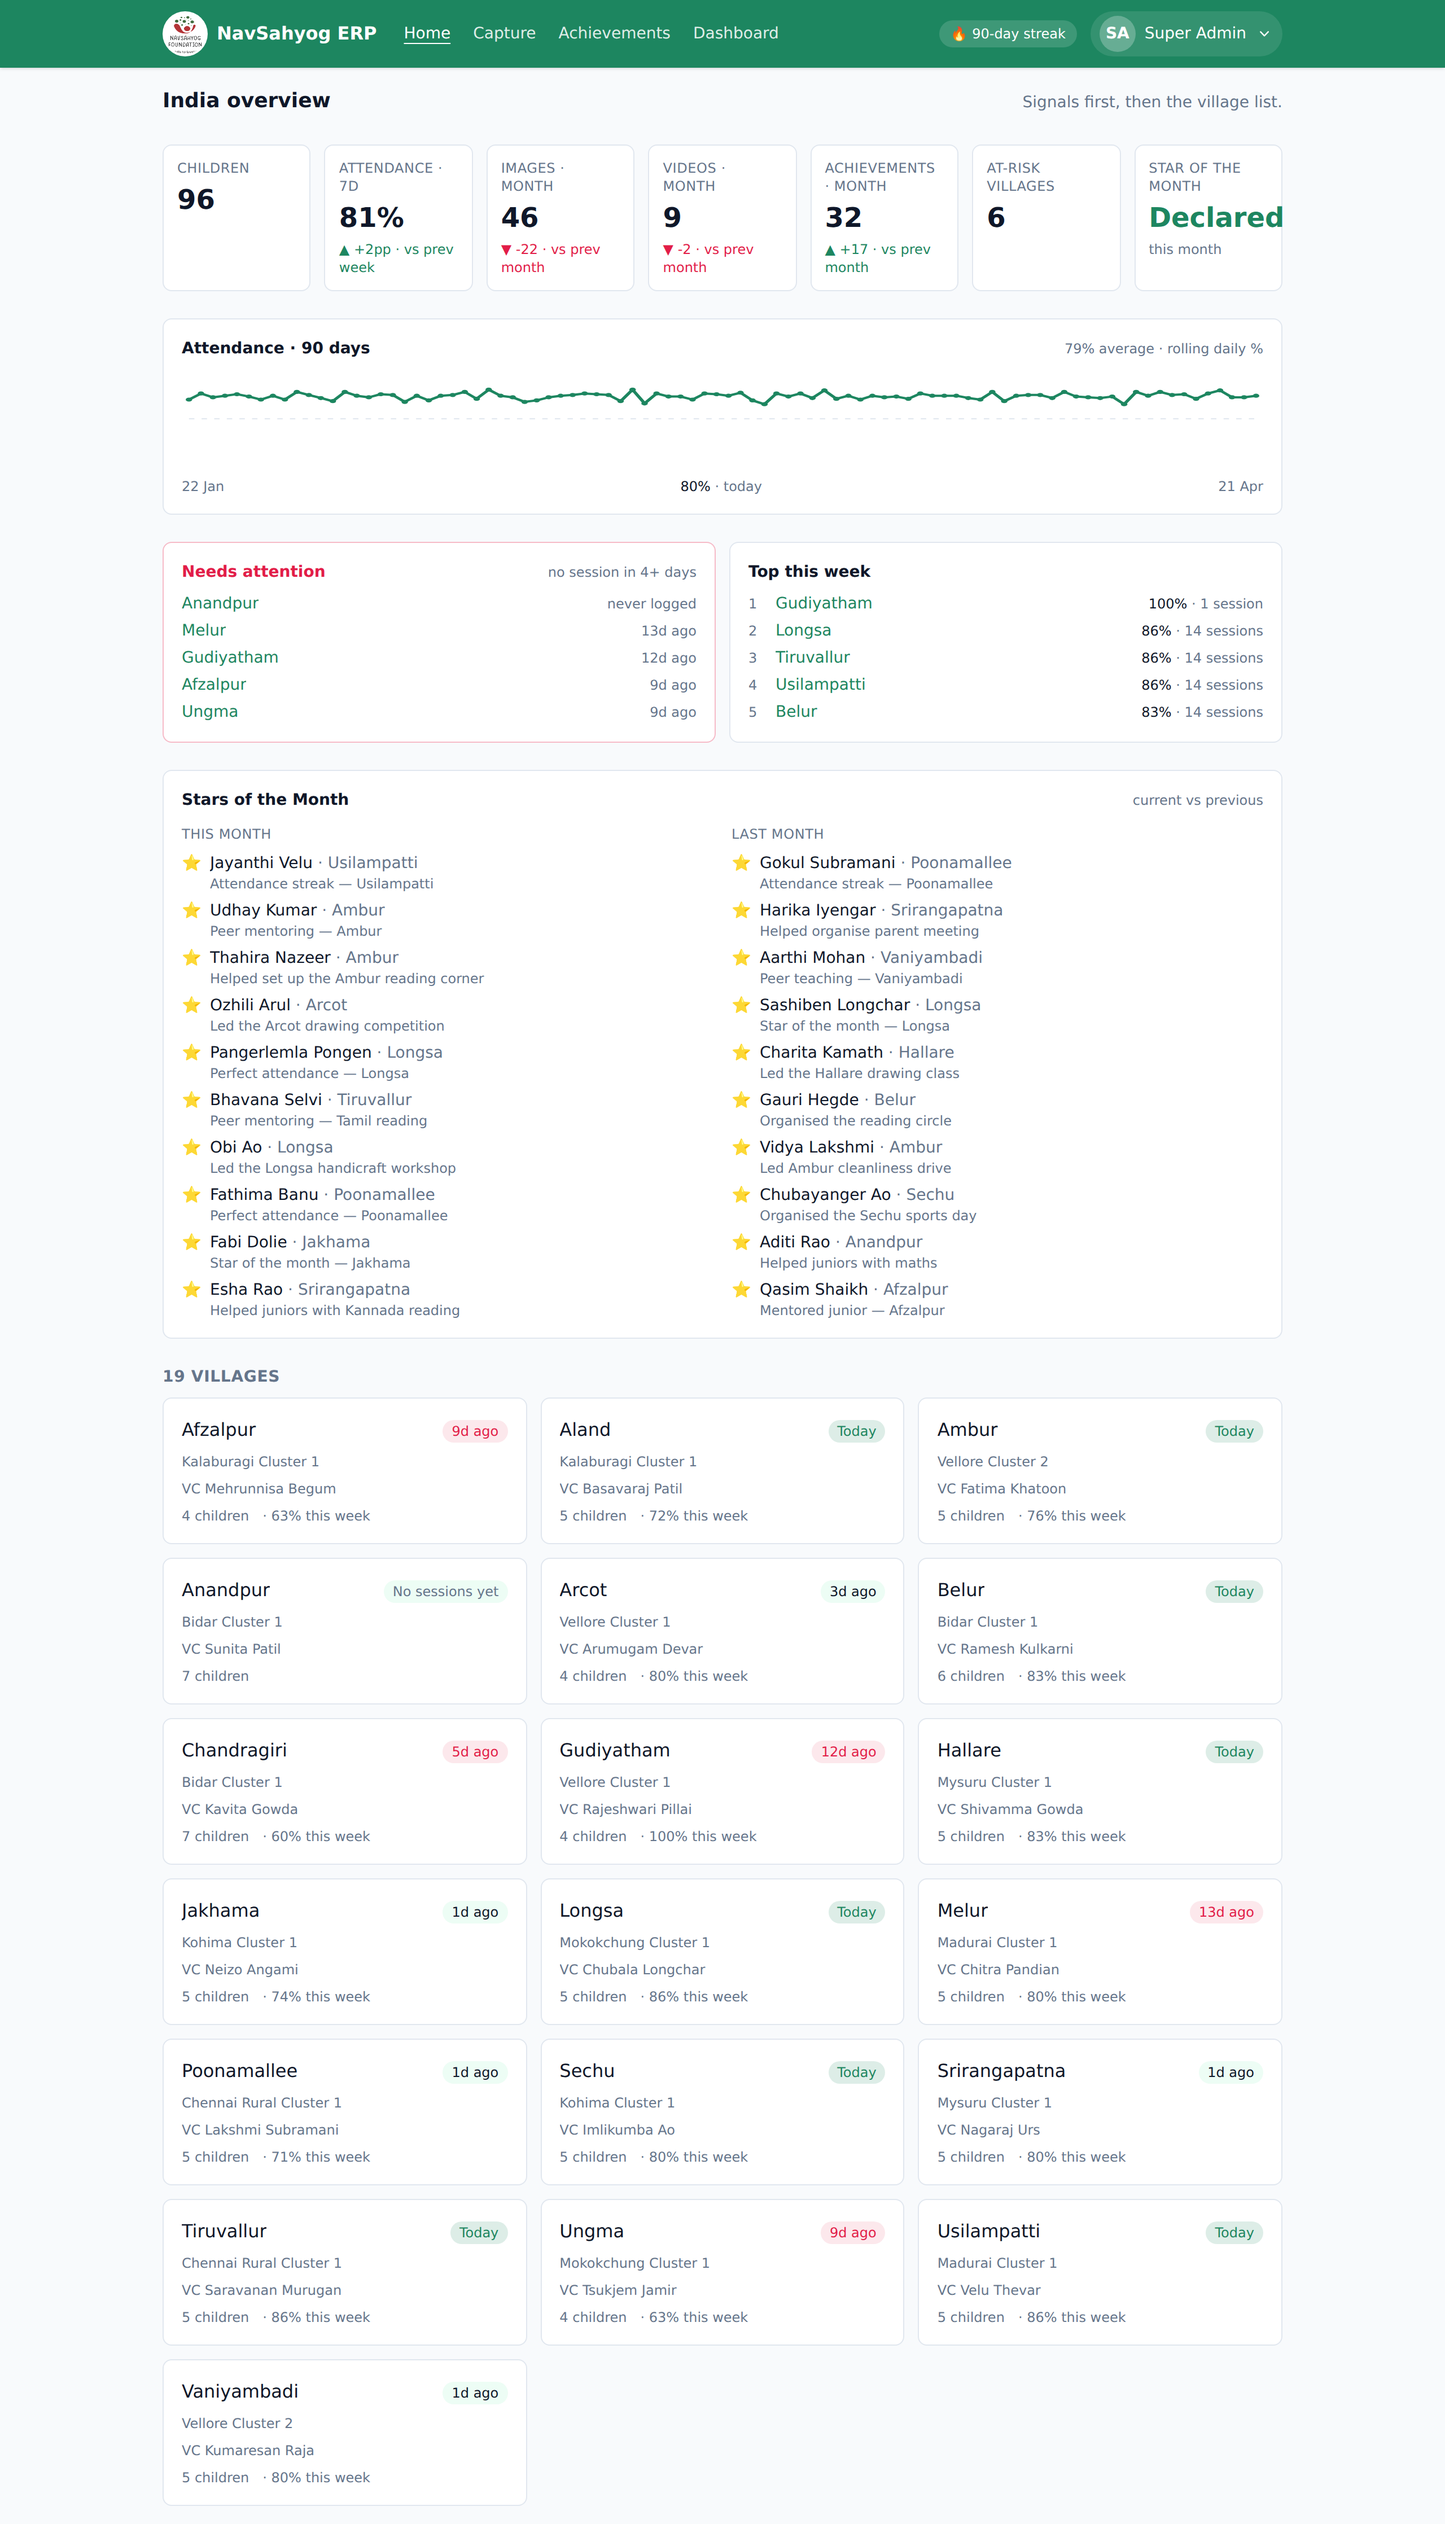
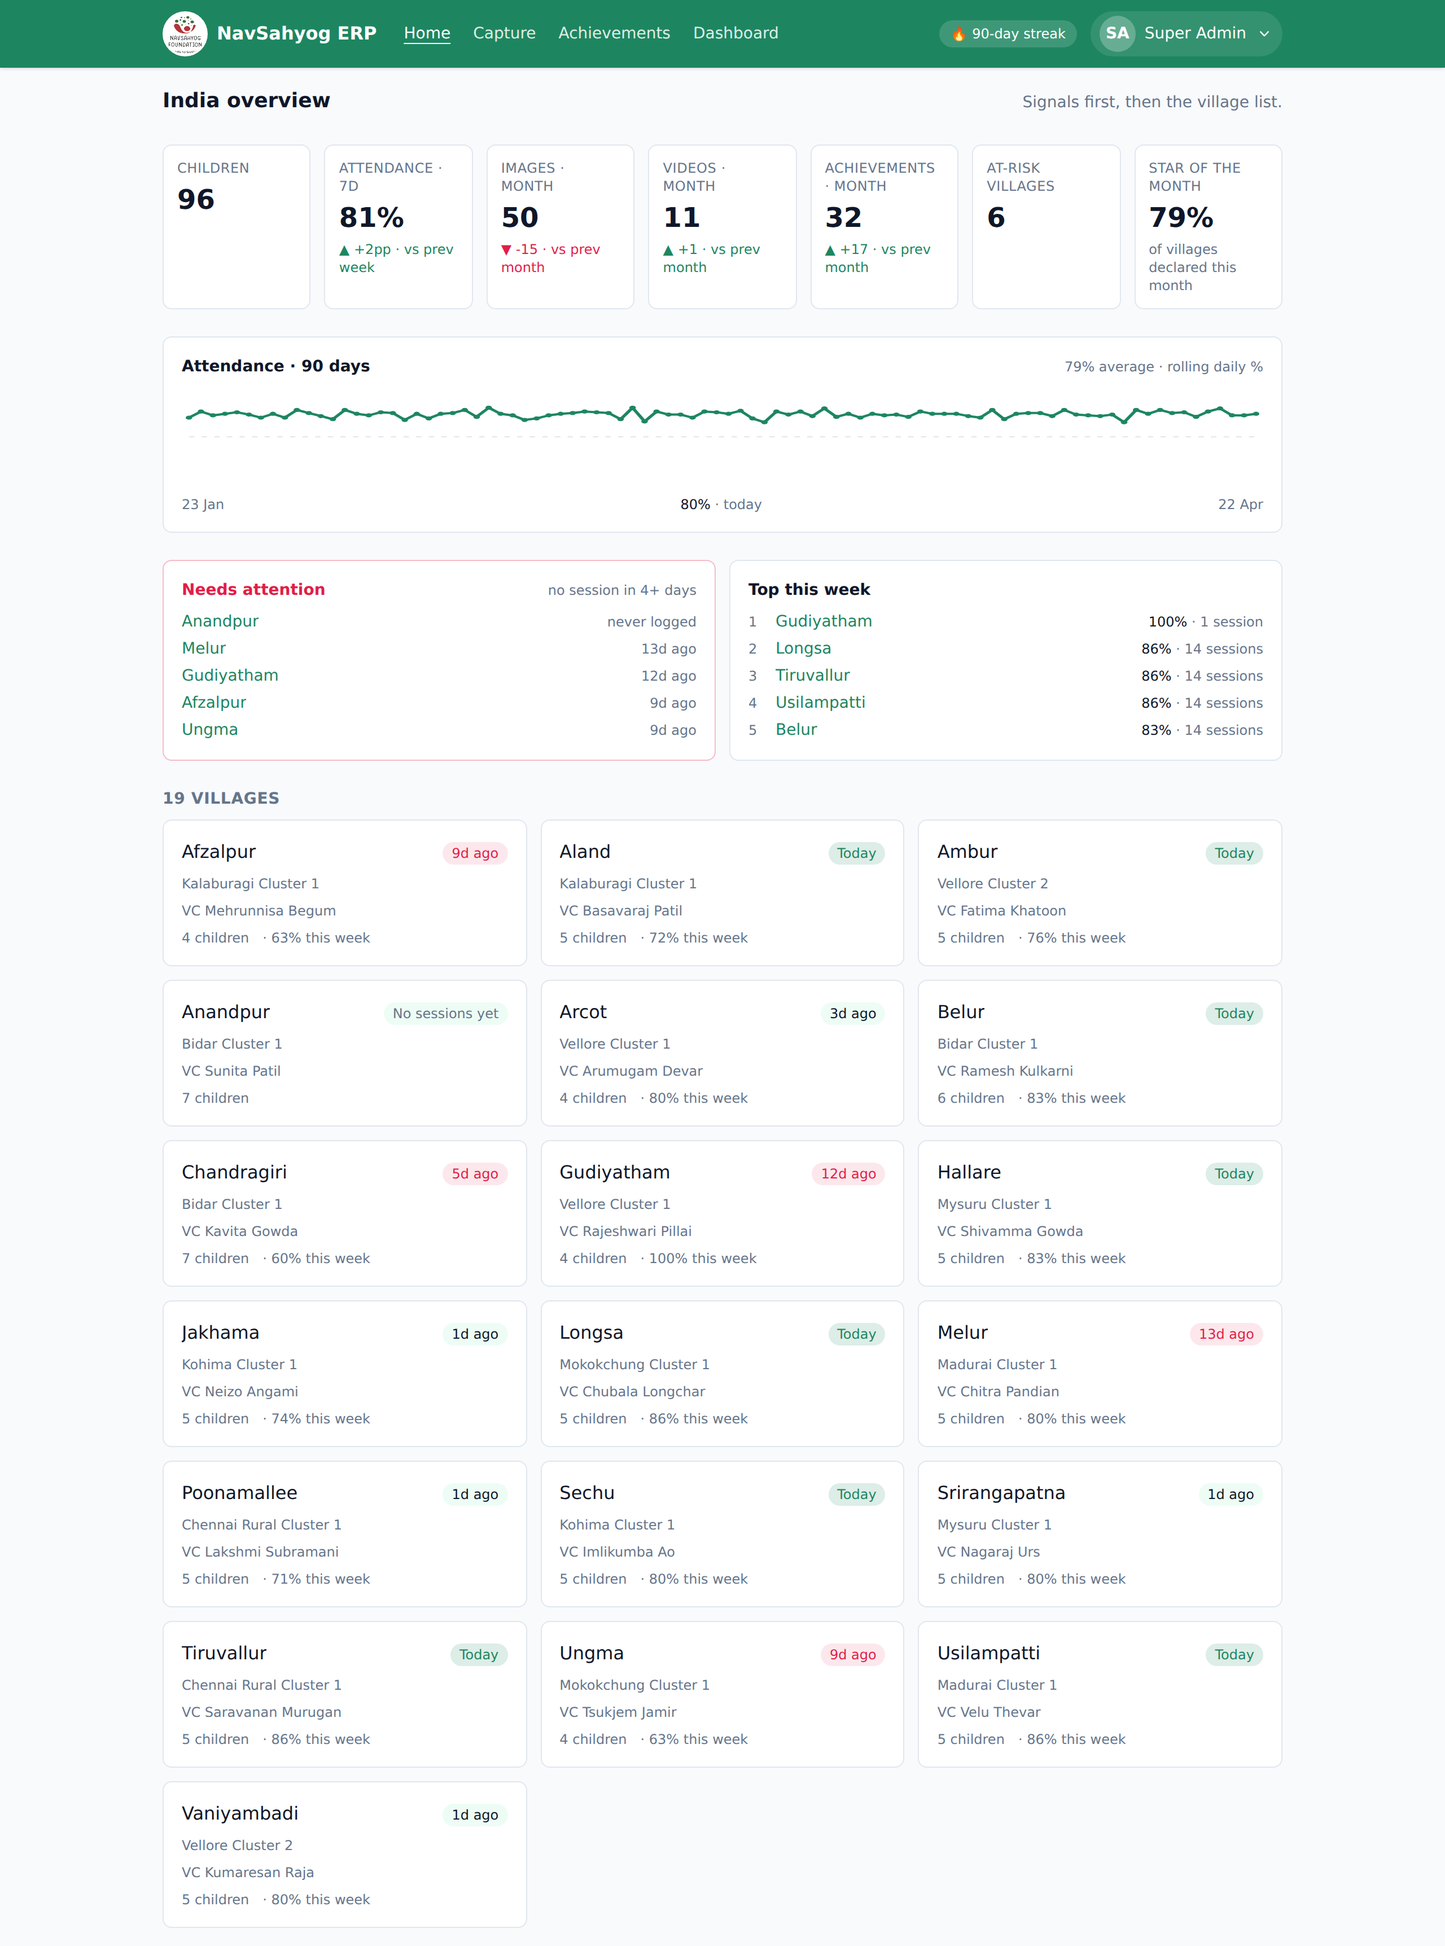
feat(home): SOM tile as % of villages declared
Per review feedback on #33: the yes/no Declared / Not-yet tile
leaves ops blind once the first village declares — 1/19 reads
"Declared" but is actually a near-complete miss. Replaces the
boolean with the share of in-scope villages that have at least
one SoM this calendar month (0–100, whole-number %).

Tile tone:
- 100% → primary (green) — the ritual is complete
-   0% → danger (red)    — nobody has declared yet
- any %  → neutral fg     — work remaining

Server (apps/api/src/routes/insights.ts): somDeclaredInMonth →
somDeclaredPctInMonth, single query with COUNT(DISTINCT village_id)
over achievement.type='som' in the current month prefix. Same
index coverage as before.

Shape (packages/shared/src/insights.ts): som_declared_this_month
(boolean) → som_declared_pct (number, 0–100).

Client (apps/web/src/pages/Home.tsx): SomDeclaredTile renders the
percentage and drops the yes/no branch. i18n: removed .yes / .no
keys; hint reads "of villages declared this month".

Fresh screenshots in mvp/screenshots/index/ — super admin reads
79% at India scope (neutral tone, 15/19 villages); AF reads 100%
at Bidar Cluster 1 (primary tone, all 3 villages declared).

https://claude.ai/code/session_01TPF6tEi5dXHfF7Kbd7nGE3

diff --git a/apps/web/src/pages/Home.tsx b/apps/web/src/pages/Home.tsx
@@ -5,10 +5,10 @@
 //     and redirect to that village. Saves a wasted tap every time
 //     they log in (VCs are the most frequent users, in the field,
 //     one-handed).
-//   * Everyone else → KPI strip (includes Star-of-the-Month yes/no)
-//     + 90-day attendance sparkline + insight cards (at-risk /
-//     top-this-week / stars-of-the-month) + a village grid
-//     annotated with coordinator name + activity chip.
+//   * Everyone else → KPI strip (includes % of villages that have
+//     declared a Star of the Month this month) + 90-day attendance
+//     sparkline + insight cards (at-risk / top-this-week) + a
+//     village grid annotated with coordinator name + activity chip.
 //
 // Data comes from /api/insights (scope-filtered). That single call
 // replaces the old /api/villages fetch and carries everything the
@@ -76,10 +76,7 @@ export function Home() {
         </p>
       </header>
 
-      <KpiStrip
-        kpis={data.kpis}
-        somDeclared={data.som_declared_this_month}
-      />
+      <KpiStrip kpis={data.kpis} somDeclaredPct={data.som_declared_pct} />
 
       <AttendanceSparkline points={data.attendance_90d} />
 
@@ -116,20 +113,20 @@ export function Home() {
 
 // KPI strip. On mobile the tiles stack in a single column so each
 // metric reads as its own line; desktop packs the same seven tiles
-// (six numeric + SOM yes/no) into a single row.
+// (six numeric + SOM %) into a single row.
 function KpiStrip({
   kpis,
-  somDeclared,
+  somDeclaredPct,
 }: {
   kpis: InsightKpi[];
-  somDeclared: boolean;
+  somDeclaredPct: number;
 }) {
   return (
     <section className="grid gap-3 grid-cols-1 sm:grid-cols-2 lg:grid-cols-4 xl:grid-cols-7">
       {kpis.map((k) => (
         <KpiTile key={k.label} k={k} />
       ))}
-      <SomDeclaredTile declared={somDeclared} />
+      <SomDeclaredTile pct={somDeclaredPct} />
     </section>
   );
 }
@@ -164,20 +161,22 @@ function KpiTile({ k }: { k: InsightKpi }) {
   );
 }
 
-// Star-of-the-Month declaration tile — a yes/no signal rather than
-// a count. Ops uses this to confirm at a glance that the monthly
-// recognition ritual has been run for the current calendar month.
-function SomDeclaredTile({ declared }: { declared: boolean }) {
+// Star-of-the-Month declaration tile — share of in-scope villages
+// that have declared one this month. Tone flips to primary only at
+// 100% so partial coverage still reads as "work to do"; 0% reads
+// as danger so ops sees the miss at a glance.
+function SomDeclaredTile({ pct }: { pct: number }) {
   const { t } = useI18n();
-  const tone = declared ? 'text-primary' : 'text-danger';
+  const tone =
+    pct >= 100 ? 'text-primary'
+    : pct === 0 ? 'text-danger'
+    : 'text-fg';
   return (
     <div className="bg-card border border-border rounded-lg p-3 flex flex-col gap-1">
       <div className="text-xs text-muted-fg uppercase tracking-wide">
         {t('home.kpi.som_declared')}
       </div>
-      <div className={`text-2xl font-semibold ${tone}`}>
-        {declared ? t('home.kpi.som_declared.yes') : t('home.kpi.som_declared.no')}
-      </div>
+      <div className={`text-2xl font-semibold ${tone}`}>{pct}%</div>
       <div className="text-xs text-muted-fg">
         {t('home.kpi.som_declared.hint')}
       </div>

diff --git a/apps/api/src/routes/insights.ts b/apps/api/src/routes/insights.ts
@@ -300,29 +300,33 @@ function addMonths(fromIso: string, months: number): string {
   return `${ny}-${String(nm).padStart(2, '0')}-01`;
 }
 
-// Has the user's scope declared at least one Star of the Month in
-// the given calendar month? Boolean, cheap (indexed EXISTS), drives
-// the yes/no KPI tile on the home dashboard.
-async function somDeclaredInMonth(
+// Share of in-scope villages with at least one Star of the Month
+// declared in the given calendar month, as a whole-number
+// percentage (0–100). The denominator is every village in scope
+// (including villages that never ran anything this month) so the
+// tile reads as "how close to 100% declared are we?" — ops wants
+// the signal that stragglers exist, not just that somebody
+// somewhere in scope remembered.
+async function somDeclaredPctInMonth(
   db: D1Database,
   ids: number[],
   monthPrefix: string,
-): Promise<boolean> {
-  if (ids.length === 0) return false;
+): Promise<number> {
+  if (ids.length === 0) return 0;
   const placeholders = ids.map(() => '?').join(',');
   const row = await db
     .prepare(
-      `SELECT 1 AS hit
+      `SELECT COUNT(DISTINCT st.village_id) AS declared
          FROM achievement a
          JOIN student st ON st.id = a.student_id
         WHERE st.village_id IN (${placeholders})
           AND a.type = 'som'
-          AND a.date LIKE ? || '%'
-        LIMIT 1`,
+          AND a.date LIKE ? || '%'`,
     )
     .bind(...ids, monthPrefix)
-    .first<{ hit: number }>();
-  return row !== null;
+    .first<{ declared: number }>();
+  const declared = row?.declared ?? 0;
+  return Math.round((declared / ids.length) * 100);
 }
 
 insights.get('/', requireCap('dashboard.read'), async (c) => {
@@ -356,7 +360,7 @@ insights.get('/', requireCap('dashboard.read'), async (c) => {
     videosThisMonth,
     videosPrevMonth,
     dailyAtt,
-    somDeclared,
+    somDeclaredPct,
   ] = await Promise.all([
     overallAttendancePct(c.env.DB, ids, weekStart, today),
     overallAttendancePct(c.env.DB, ids, prevWeekStart, prevWeekEnd),
@@ -367,7 +371,7 @@ insights.get('/', requireCap('dashboard.read'), async (c) => {
     mediaInMonth(c.env.DB, ids, 'video', monthPrefix),
     mediaInMonth(c.env.DB, ids, 'video', prevMonthPrefix),
     dailyAttendance(c.env.DB, ids, spark90Start, today),
-    somDeclaredInMonth(c.env.DB, ids, monthPrefix),
+    somDeclaredPctInMonth(c.env.DB, ids, monthPrefix),
   ]);
 
   const totalChildren = cores.reduce((a, v) => a + v.children_count, 0);
@@ -464,7 +468,7 @@ insights.get('/', requireCap('dashboard.read'), async (c) => {
     at_risk_villages: atRiskVillages,
     all_villages: allVillages,
     attendance_90d: attendance90d,
-    som_declared_this_month: somDeclared,
+    som_declared_pct: somDeclaredPct,
   };
   return c.json(body);
 });

diff --git a/packages/shared/src/insights.ts b/packages/shared/src/insights.ts
@@ -77,10 +77,12 @@ export type InsightsResponse = {
   // oldest → newest, always exactly 90 entries (missing days return
   // `{ date, pct: null }`).
   attendance_90d: AttendanceSparkPoint[];
-  // True when at least one Star of the Month has been declared in
-  // the current IST calendar month across the user's scope. Drives
-  // the yes/no KPI tile on the home dashboard.
-  som_declared_this_month: boolean;
+  // Share of in-scope villages that have declared at least one
+  // Star of the Month in the current IST calendar month, expressed
+  // as a whole-number percentage (0–100). 0 when the scope has no
+  // villages. Drives the SoM KPI tile on the home dashboard — ops
+  // wants to see "how close to 100% declared are we?" at a glance.
+  som_declared_pct: number;
 };
 
 export type StreakResponse = {
